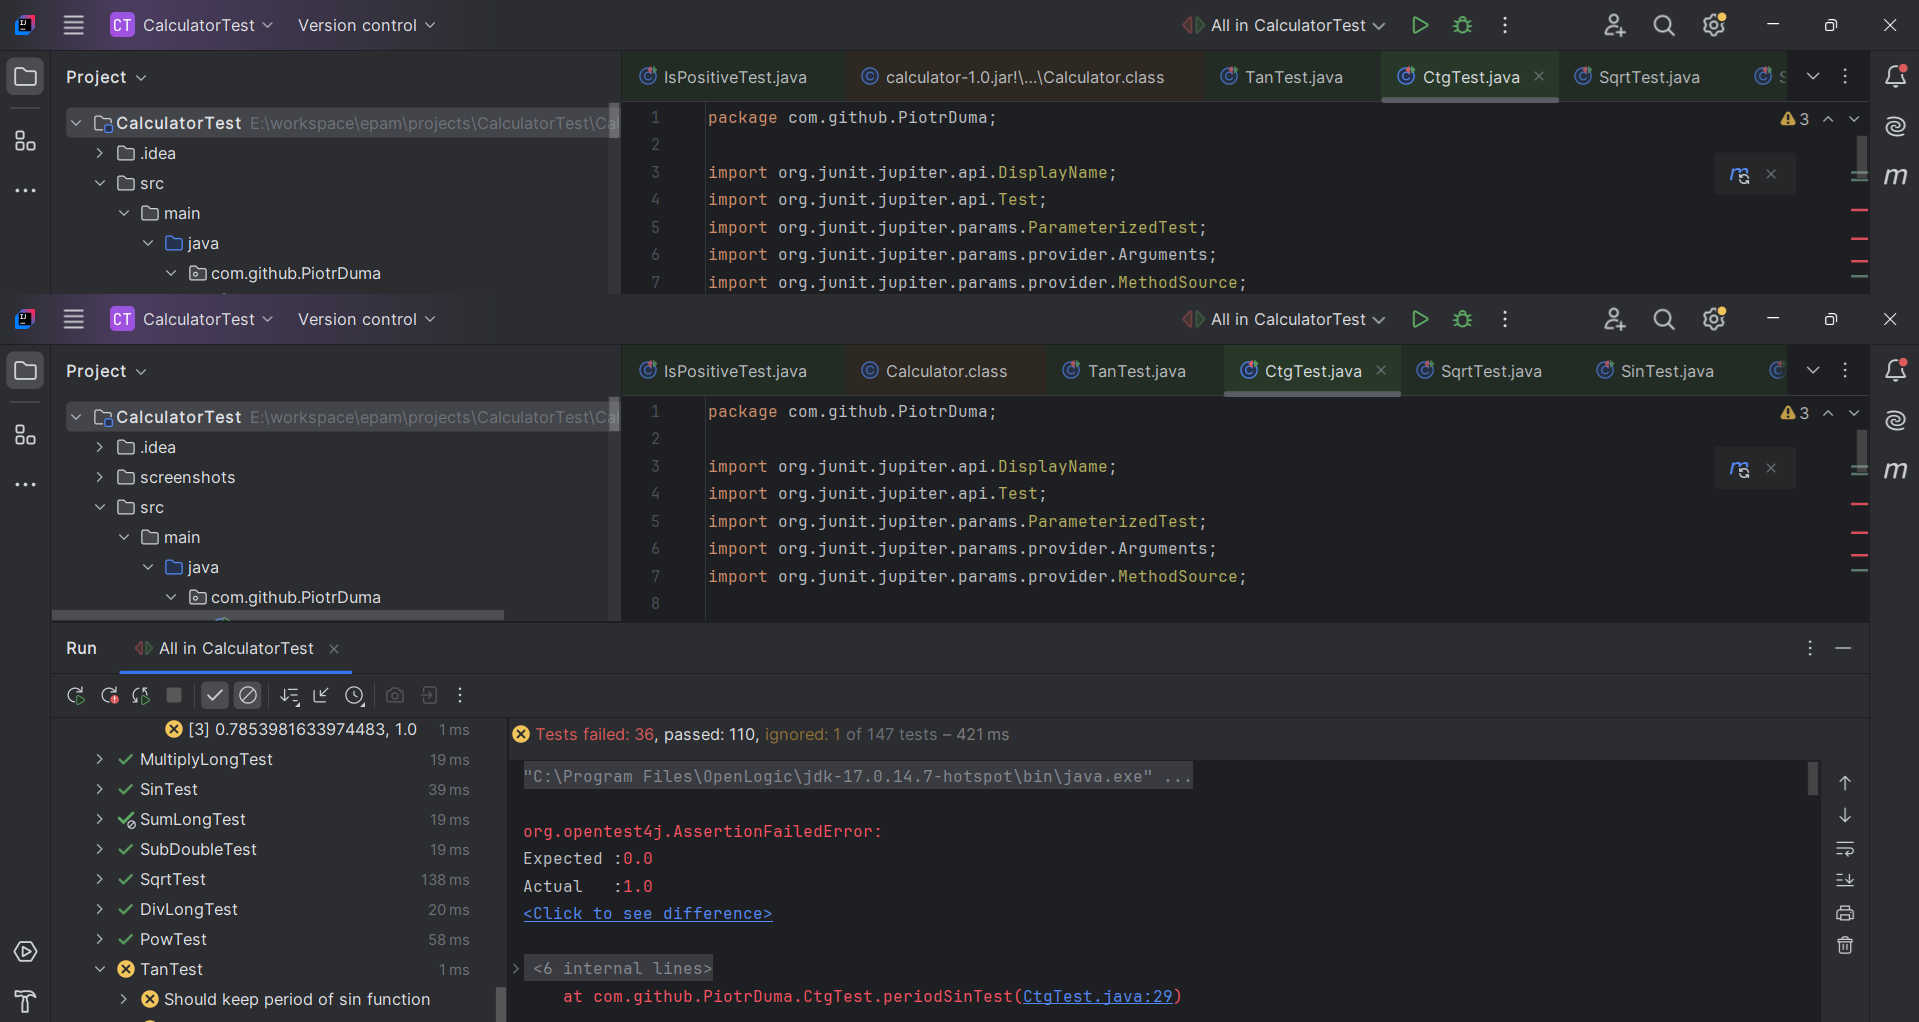
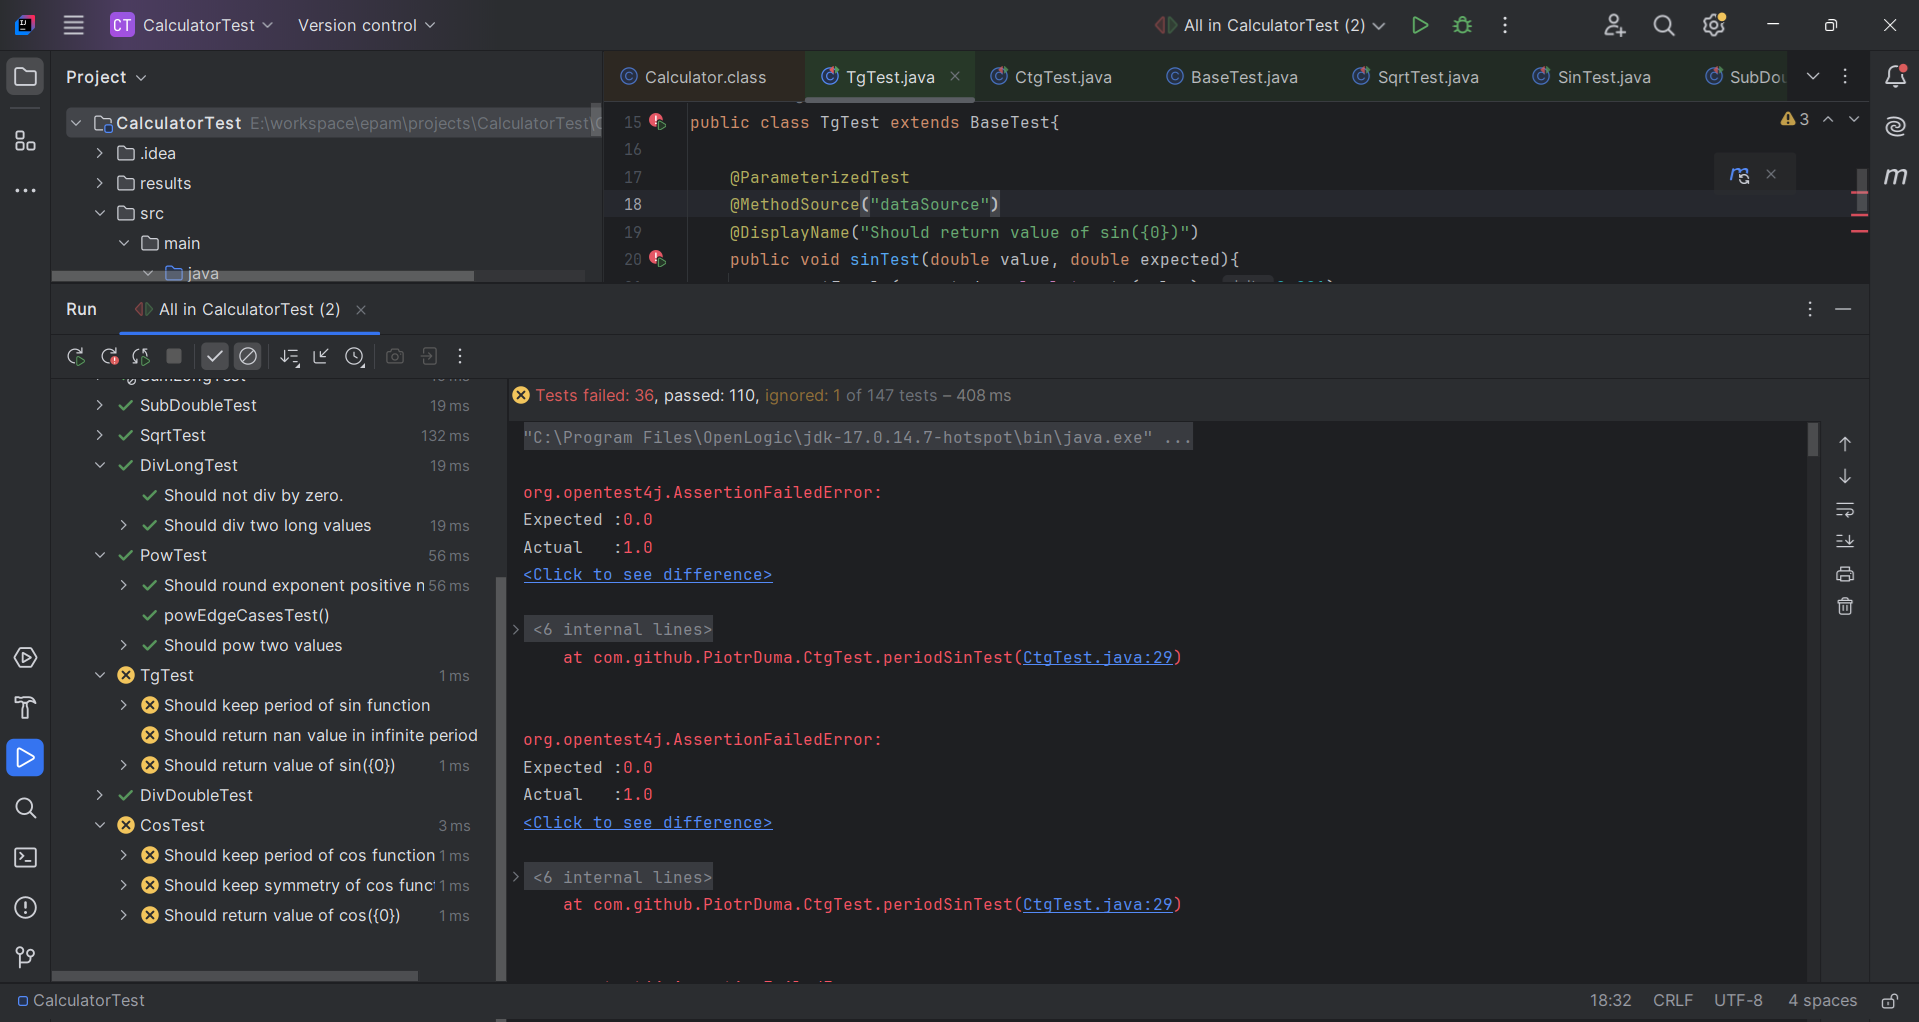
add changes

diff --git a/src/test/java/com/github/PiotrDuma/TgTest.java b/src/test/java/com/github/PiotrDuma/TgTest.java
@@ -1,0 +1,47 @@
+package com.github.PiotrDuma;
+
+import org.junit.jupiter.api.DisplayName;
+import org.junit.jupiter.api.Test;
+import org.junit.jupiter.params.ParameterizedTest;
+import org.junit.jupiter.params.provider.Arguments;
+import org.junit.jupiter.params.provider.MethodSource;
+
+import java.util.stream.Stream;
+
+import static org.junit.jupiter.api.Assertions.assertEquals;
+import static org.junit.jupiter.api.Assertions.assertTrue;
+import static org.junit.jupiter.params.provider.Arguments.arguments;
+
+public class TgTest extends BaseTest{
+
+    @ParameterizedTest
+    @MethodSource("dataSource")
+    @DisplayName("Should return value of sin({0})")
+    public void sinTest(double value, double expected){
+        assertEquals(expected, calculator.tg(value), 0.001);
+    }
+
+    @ParameterizedTest
+    @MethodSource("dataSource")
+    @DisplayName("Should keep period of sin function")
+    public void periodSinTest(double value, double expected){
+        double period = 200 * Math.PI;
+        assertEquals(expected, calculator.tg(period + value), 0.001);
+    }
+
+    @Test
+    @DisplayName("Should return nan value in infinite period")
+    public void testInfiniteValues(){
+        assertTrue(calculator.tg(Math.PI/2) > 10e10); //inf
+        assertTrue(calculator.tg(-Math.PI/2) < 10e10); //-inf
+    }
+
+    private static Stream<Arguments> dataSource() {
+        return Stream.of(
+                arguments(0.0, 0.0),
+                arguments(Math.PI, 0.0),
+                arguments(-Math.PI/4, -1.0),
+                arguments(Math.PI/4, 1.0)
+        );
+    }
+}
